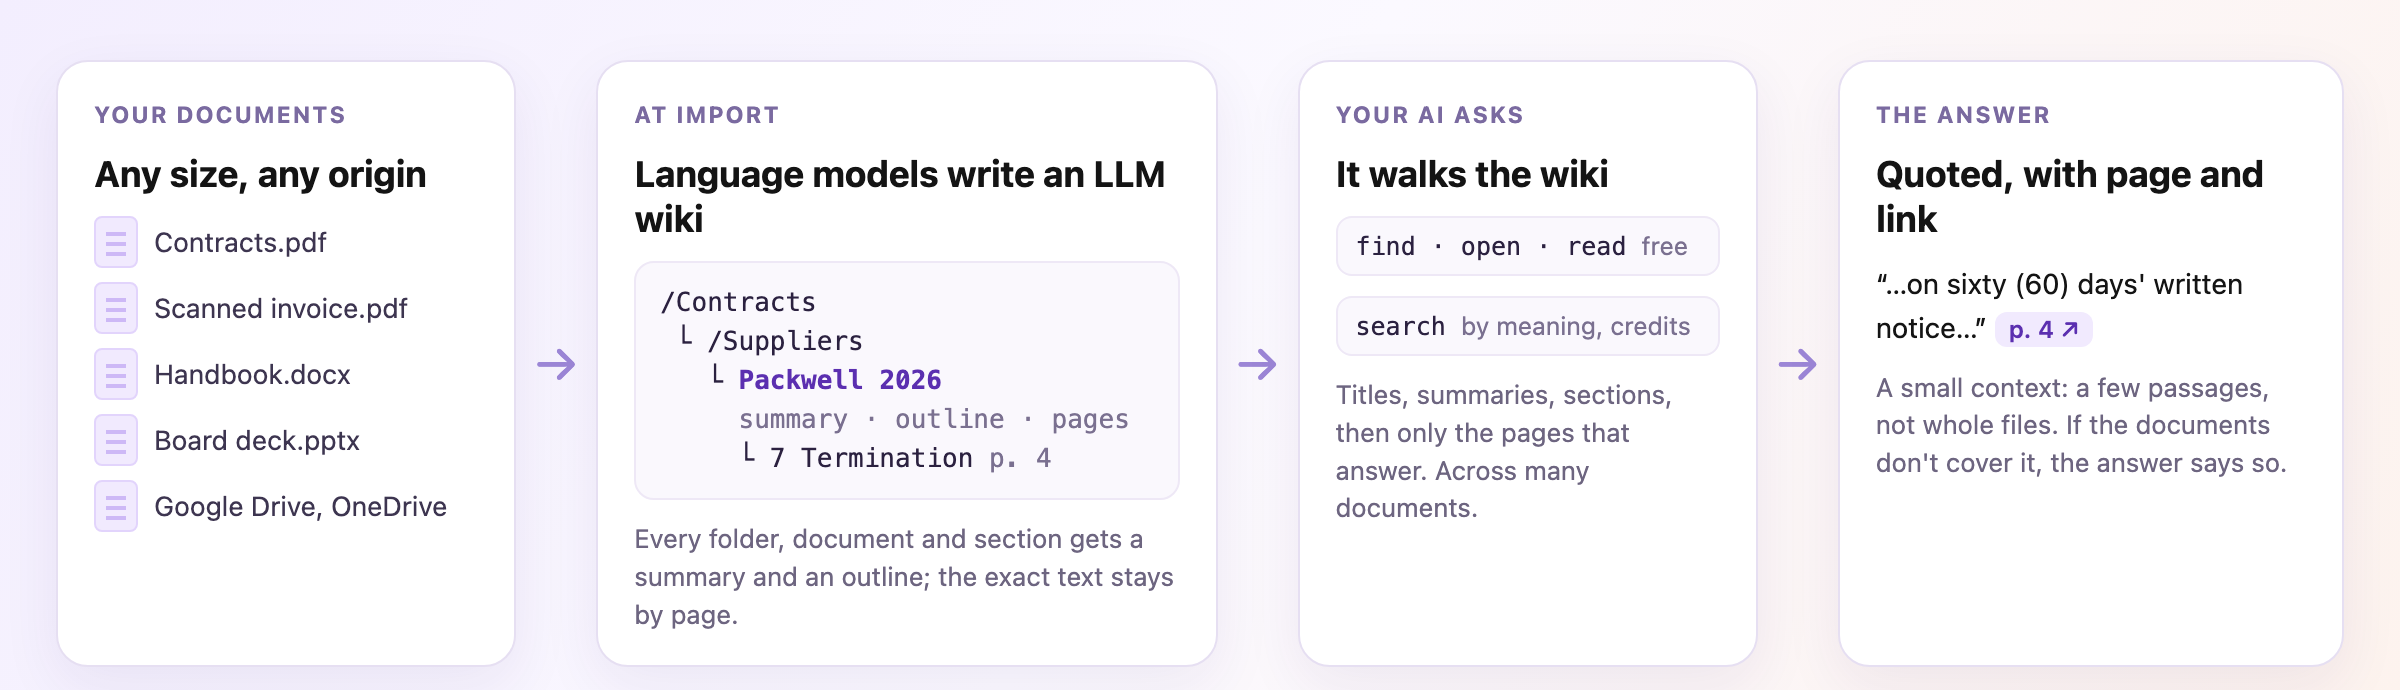
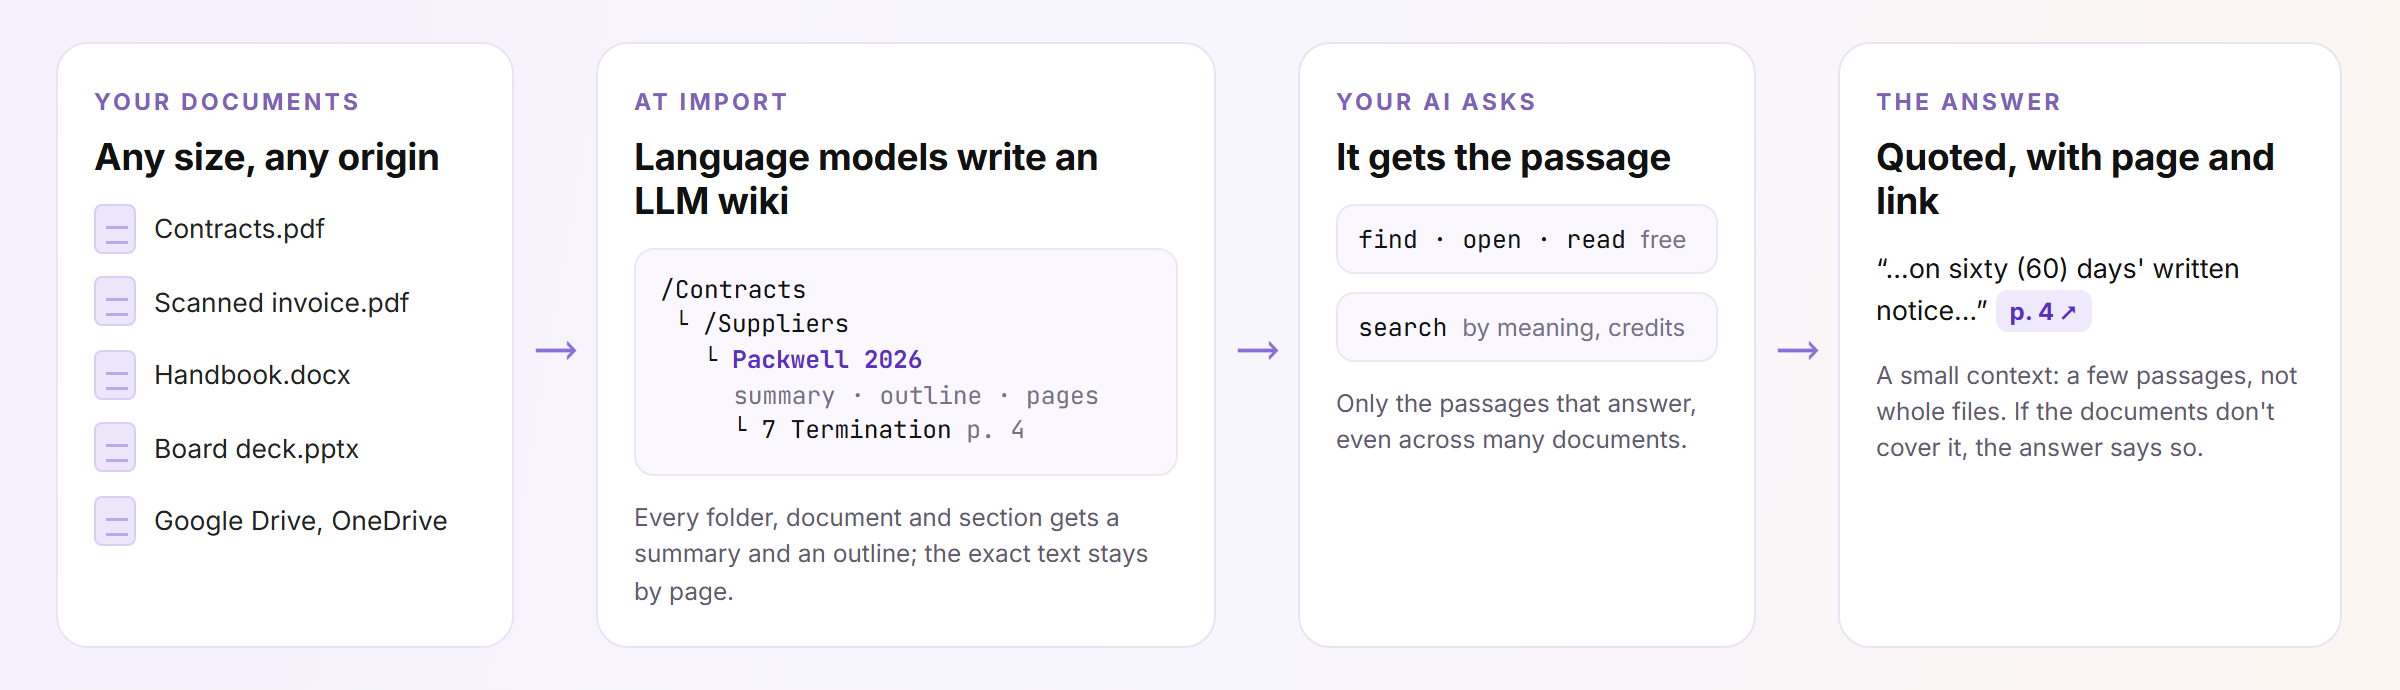
Hippocampus plugin 0.2.2: the owner-approved public texts
The tree as generated from hippocampus-mcp plugin/public at 64af259, after
the owner's review of 26 Nov 2026: no "runs no generative model", no
description of how search works inside, "Not used to train AI models: every
provider we use is on terms that exclude training.", "Encrypted in the EU,
documents stored in Finland". Benchmark figures unchanged (Oct 2026 report).

diff --git a/README.md b/README.md
@@ -34,7 +34,7 @@ Your AI is as good as what it can read. Hippocampus gives it your company's docu
 
 | Your AI without Hippocampus | Your AI with Hippocampus |
 |---|---|
-| Chunk-based vector search cuts documents into pieces and returns look-alike chunks from different files | It walks a wiki of your documents and reaches the section that answers |
+| Chunk-based vector search cuts documents into pieces and returns look-alike chunks from different files | It answers from an LLM-built wiki of your documents, down to the section and page |
 | Fast on simple lookups, but loses the thread on complex questions and large collections | Complex questions across many documents: compare, list every clause on a topic, follow a decision through its sources |
 | Whole files pasted into the chat fill the context window | A few passages, not whole files: the context stays small |
 | Answers you cannot check | Every claim quoted with its document, page and a link that opens it |
@@ -43,10 +43,10 @@ Your AI is as good as what it can read. Hippocampus gives it your company's docu
 
 ## How it works
 
-![How it works: documents of any origin are written into an LLM wiki at import; your AI walks the wiki and answers with the quoted passage, its page and a link](assets/how-it-works.png)
+![How it works: documents of any origin are written into an LLM wiki at import; your AI asks it and answers with the quoted passage, its page and a link](assets/how-it-works.png)
 
 - **At import**, language models write your documents into an LLM wiki: folders, documents and sections, each with a summary and an outline, the exact text kept by page. PDF, scanned PDF, Word, PowerPoint, Excel, Markdown and text; Google Drive and OneDrive.
-- **A question** walks titles, summaries and sections and reaches the exact passage, even across many documents. Finding, opening and reading are free; search by meaning uses credits. Search itself runs no generative model: it returns the passages, and your AI writes the answer.
+- **A question** is answered from the exact passage, even across many documents. Finding, opening and reading are free; search by meaning uses credits. Your AI writes the answer from the passages it reads.
 - **The answer** quotes the source with its page and a link into Hippocampus, so anyone can check it.
 - **It is also your team's shared memory.** When you ask, the assistant adds a decision, meeting notes or a new procedure, and it stays for the team.
 
@@ -237,7 +237,8 @@ Success rate: of the questions a perfect search would solve, the share each syst
 
 ## Security and privacy
 
-- Documents are stored encrypted in the EU (Finland), each with its own key, and are never used to train AI models.
+- Encrypted in the EU, documents stored in Finland, each with its own key.
+- Not used to train AI models: every provider we use is on terms that exclude training.
 - The assistant acts as you: one connection, one workspace, exactly your permissions.
 - Text from documents reaches the AI marked as quoted data, never as instructions.
 - A sign-in lasts 30 days. You can end an app's access at once in Hippocampus.
@@ -250,7 +251,7 @@ Details: [about/security-privacy.md](about/security-privacy.md), https://www.tha
 <details>
 <summary><b>Is this RAG?</b></summary>
 
-It is retrieval for your AI, but not chunk-based vector search. Language models write your documents into a wiki at import; a question walks it and returns whole, cited passages. Your AI writes the answer from them.
+It is retrieval for your AI. Language models write your documents into a wiki at import; your AI gets whole, cited passages from it and writes the answer.
 </details>
 
 <details>

diff --git a/about/overview.md b/about/overview.md
@@ -1,6 +1,6 @@
 # What Thalius Hippocampus is
 
-Hippocampus turns a company's documents into an expert its AI can consult. People import policies, contracts, procedures, specifications, reports and notes (PDF, scanned PDF, Word, PowerPoint, Excel, Markdown or text), or sync them from Google Drive and OneDrive. Behind it is an LLM wiki: at import, language models write every document into folders, documents and sections, each with a summary, an outline and the exact text. A question walks that wiki the way an expert walks a library: titles, then summaries, then only the passage that answers it.
+Hippocampus turns a company's documents into an expert its AI can consult. People import policies, contracts, procedures, specifications, reports and notes (PDF, scanned PDF, Word, PowerPoint, Excel, Markdown or text), or sync them from Google Drive and OneDrive. Behind it is an LLM wiki: at import, language models write every document into folders, documents and sections, each with a summary, an outline and the exact text.
 
 Vector search cuts documents into chunks and mixes them. It is fast on simple lookups but loses the thread on complex questions and large collections. Hippocampus keeps each document whole, so an answer comes from the right document, section and page, and the AI reads a few passages instead of whole files.
 
@@ -13,7 +13,7 @@ This plugin connects an AI assistant to that expert over the Model Context Proto
 | Teams with many documents | The exact clause, figure or routine, with the page it stands on |
 | People who must check answers | Every extract carries its document, section, pages and a link |
 | Developers building agents | Retrieval over the company's documents through MCP or the API, on a free account |
-| Companies with sensitive material | Documents stored encrypted in the EU; the assistant sees only what the signed-in person may see |
+| Companies with sensitive material | Encrypted in the EU, documents stored in Finland; the assistant sees only what the signed-in person may see |
 
 ## What the assistant can do
 

diff --git a/about/faq.md b/about/faq.md
@@ -8,8 +8,8 @@
 | What can the assistant see? | Exactly the documents you may see in Hippocampus, nothing else |
 | Can it change or delete my documents? | It can add documents when you ask (`ingest`), and only in folders where you can add documents yourself. You decide when you connect ("Let the agent add and update documents": ticked when Hippocampus verified the app, unticked for the device flow or an unverified app). It cannot delete or edit documents |
 | Which files can I import? | PDF, scanned PDF, Word, PowerPoint, Excel, Markdown and text |
-| Where are my documents stored? | Encrypted, in the EU (Finland) |
-| Are my documents used to train AI? | No |
+| Where are my documents stored? | Encrypted in the EU, documents stored in Finland |
+| Are my documents used to train AI? | Not used to train AI models: every provider we use is on terms that exclude training. |
 | Which AI apps work? | Any app that connects to a remote MCP server: Claude, ChatGPT, Codex, Cursor, VS Code, Gemini CLI, Antigravity, Kiro, Devin, Cline, Mistral Vibe, Perplexity and others |
 | Why does an answer cite a page? | Every extract carries its document, section, pages and a link, so the answer can be checked |
 | What costs credits? | Searching and adding documents. Finding, opening, reading and checking the balance are free. See [credits.md](credits.md) |

diff --git a/about/security-privacy.md b/about/security-privacy.md
@@ -24,10 +24,10 @@ The full statements are on https://www.thalius.ai/security and https://www.thali
 
 | Protection | Detail |
 |---|---|
-| Residency | Documents, the knowledge built from them and conversation history are stored in the EU (Finland), encrypted |
+| Residency | Encrypted in the EU, documents stored in Finland |
 | Encryption keys | Each document has its own key; Free and Starter keys are managed in Google Cloud's key management service; Corporate can hold the keys in its own service |
 | Access | The assistant acts as the signed-in person and sees exactly what that person may see |
-| Training | Your documents are never used to train AI models |
+| Training | Not used to train AI models: every provider we use is on terms that exclude training. |
 | Revocation | Disconnect an AI app at any time in Hippocampus, under Connect to your AI → Connected apps |
 
 ## Contact
